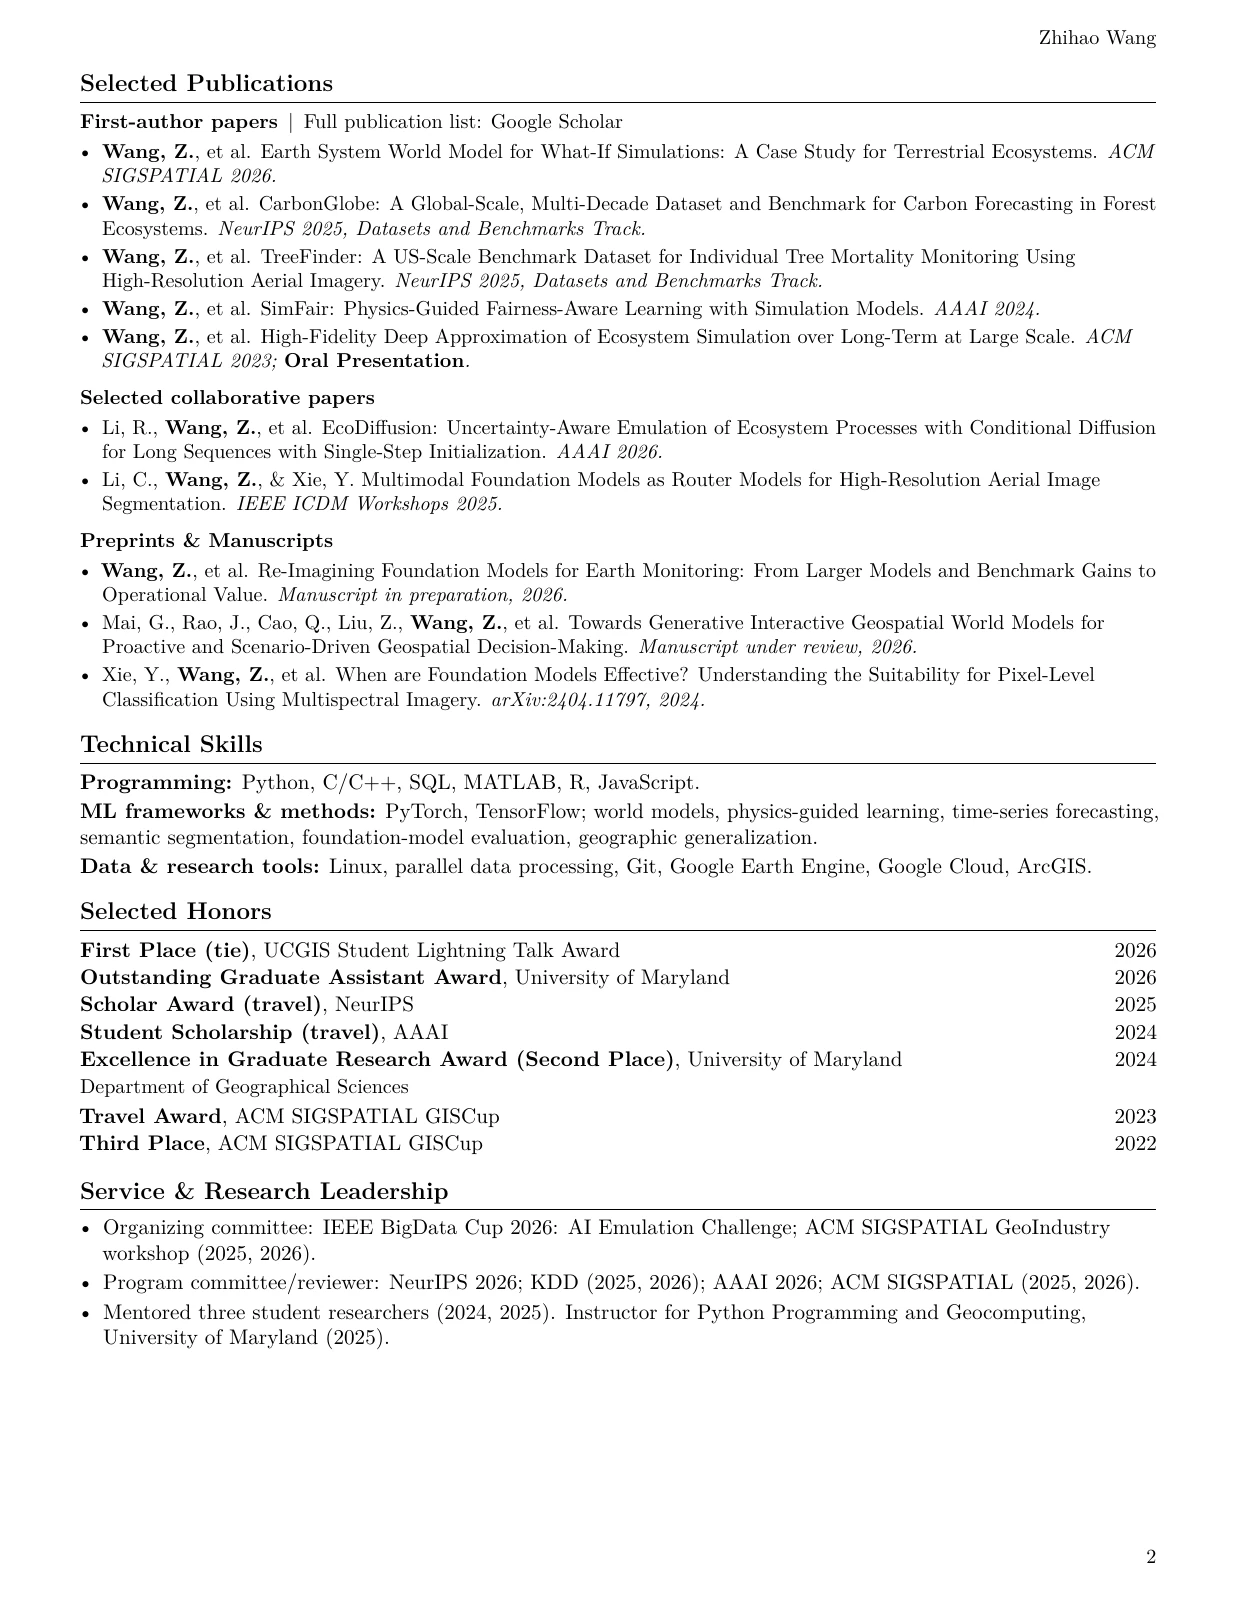
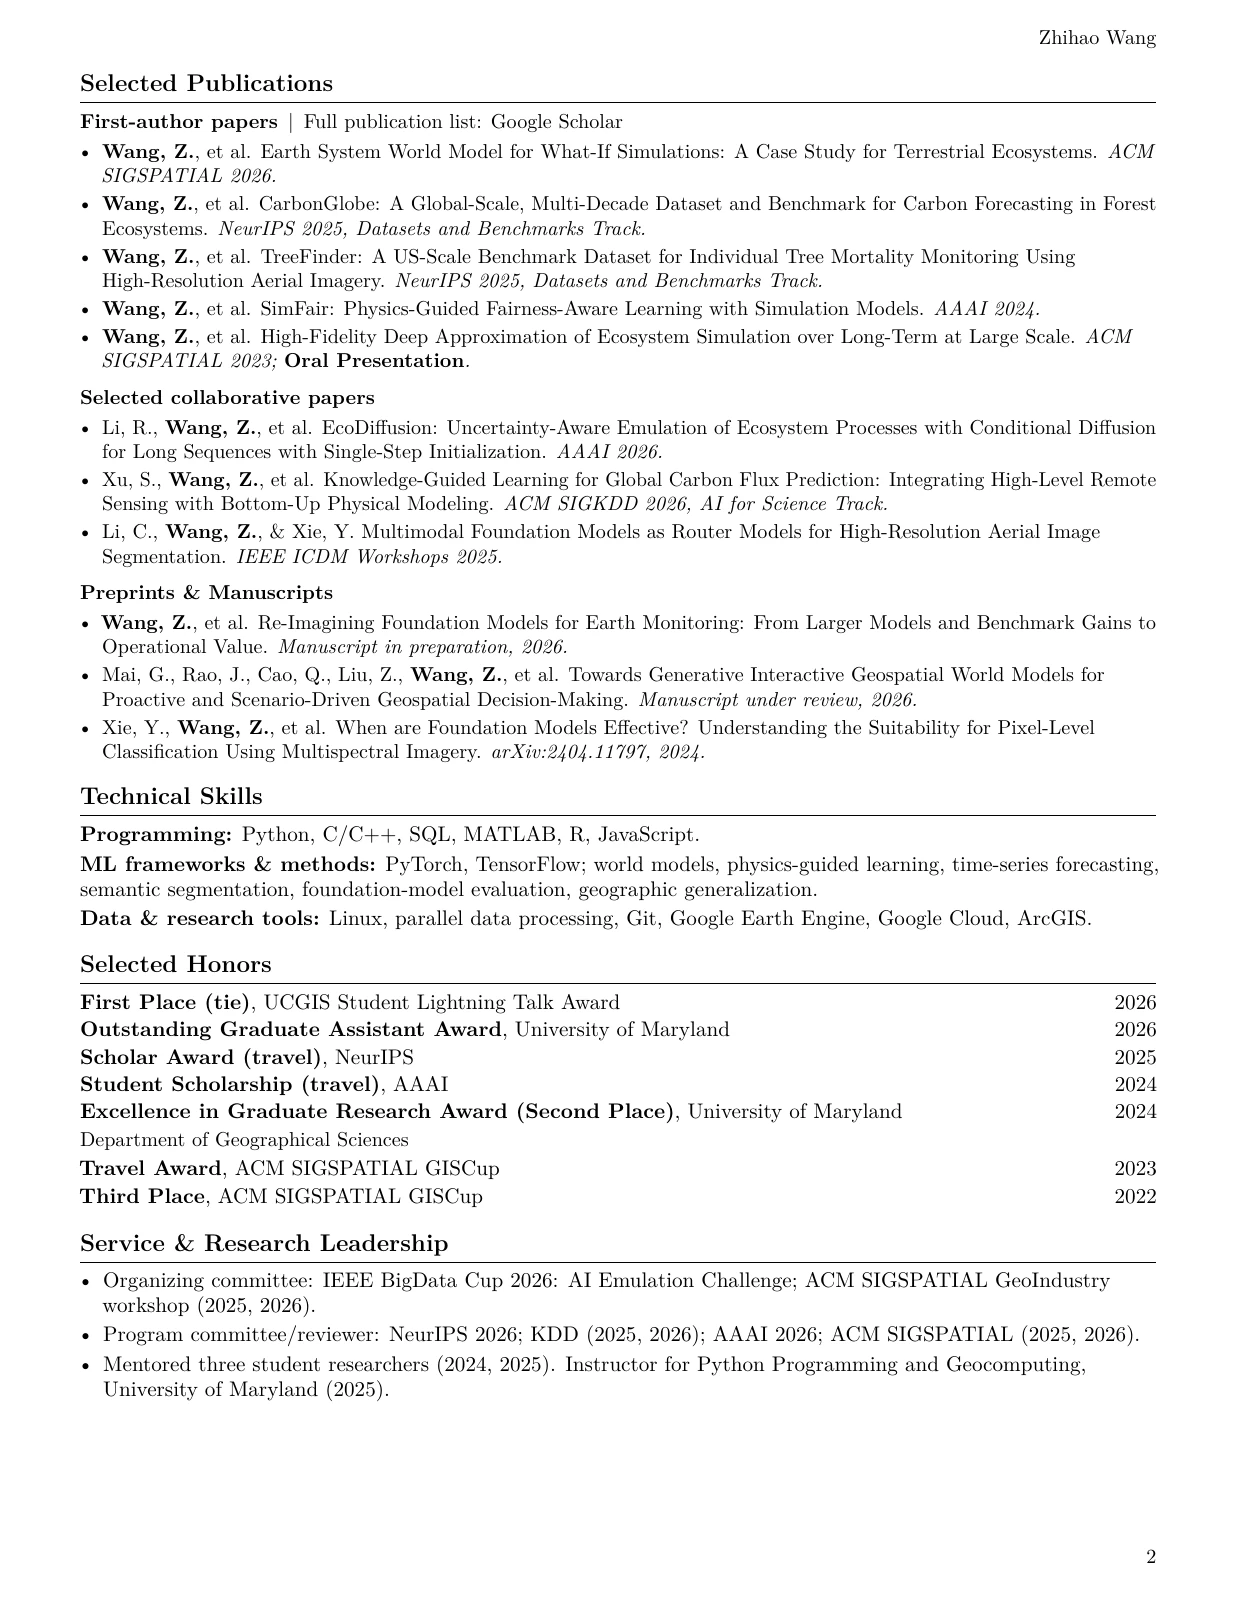
Add KDD 2026 collaborative paper to resume

Changed region(s): [[0.0614, 0.2812, 0.9216, 0.875], [0.8909, 0.5938, 0.9523, 0.75], [0.4915, 0.6562, 0.5222, 0.7188]]

diff --git a/resume/index.html b/resume/index.html
@@ -5,7 +5,7 @@
   <meta name="viewport" content="width=device-width, initial-scale=1">
   <title>Zhihao Wang | Resume</title>
   <meta name="description" content="Download Zhihao Wang’s industry resume or academic CV: research in GeoAI, world models, foundation models, and AI for Science.">
-  <link rel="preload" as="image" href="/assets/img/documents/resume-preview.webp?v=49615534a1c0">
+  <link rel="preload" as="image" href="/assets/img/documents/resume-preview.webp?v=8a68cf90402e">
   <link rel="canonical" href="https://zhwang0.github.io/resume/">
   <script src="/assets/js/theme.js?v=20260902-theme1"></script>
   <link rel="preconnect" href="https://fonts.googleapis.com">
@@ -70,18 +70,18 @@
         <header class="document-toolbar">
           <div class="document-toolbar-heading"><h2 id="resume-panel-title">Industry Resume</h2><p>2 pages <span aria-hidden="true">·</span> PDF</p></div>
           <div class="document-actions">
-            <a class="document-open" href="/assets/pdf/Zhihao_Wang_Resume.pdf?v=49615534a1c0">Open PDF <span aria-hidden="true">↗</span></a>
-            <a class="document-download" href="/assets/pdf/Zhihao_Wang_Resume.pdf?v=49615534a1c0" download="Zhihao_Wang_Resume.pdf" aria-label="Download industry resume"><i class="fas fa-arrow-down" aria-hidden="true"></i> Download</a>
+            <a class="document-open" href="/assets/pdf/Zhihao_Wang_Resume.pdf?v=8a68cf90402e">Open PDF <span aria-hidden="true">↗</span></a>
+            <a class="document-download" href="/assets/pdf/Zhihao_Wang_Resume.pdf?v=8a68cf90402e" download="Zhihao_Wang_Resume.pdf" aria-label="Download industry resume"><i class="fas fa-arrow-down" aria-hidden="true"></i> Download</a>
           </div>
         </header>
-        <div class="document-stage" data-page-count="2" data-preview-prefix="/assets/img/documents/resume-preview" data-preview-version="49615534a1c0" data-document-label="industry resume">
+        <div class="document-stage" data-page-count="2" data-preview-prefix="/assets/img/documents/resume-preview" data-preview-version="8a68cf90402e" data-document-label="industry resume">
           <div class="preview-pagination" role="group" aria-label="Industry resume preview pages">
             <button class="preview-page-button" type="button" data-page-step="-1" aria-label="Previous page of industry resume" hidden disabled><i class="fas fa-chevron-left" aria-hidden="true"></i> Previous</button>
             <span class="preview-page-status" role="status" aria-live="polite" aria-atomic="true">Page 1 of 2</span>
             <button class="preview-page-button" type="button" data-page-step="1" aria-label="Next page of industry resume" hidden>Next <i class="fas fa-chevron-right" aria-hidden="true"></i></button>
           </div>
-          <a class="paper-preview" href="/assets/pdf/Zhihao_Wang_Resume.pdf?v=49615534a1c0" aria-label="Open full industry resume">
-            <img src="/assets/img/documents/resume-preview.webp?v=49615534a1c0" alt="First page of Zhihao Wang’s industry resume" width="1237" height="1600" fetchpriority="high" decoding="async">
+          <a class="paper-preview" href="/assets/pdf/Zhihao_Wang_Resume.pdf?v=8a68cf90402e" aria-label="Open full industry resume">
+            <img src="/assets/img/documents/resume-preview.webp?v=8a68cf90402e" alt="First page of Zhihao Wang’s industry resume" width="1237" height="1600" fetchpriority="high" decoding="async">
             <span class="preview-open" aria-hidden="true">View full resume <span>↗</span></span>
           </a>
           <p class="preview-error" role="alert" hidden>This page preview could not be loaded. Use Open PDF to read the full document.</p>
@@ -112,7 +112,7 @@
   </main>
 
   <footer><span>&copy; 2026 Zhihao Wang</span><a href="/">Back to home <span aria-hidden="true">↗</span></a></footer>
-  <script src="/assets/js/resume.js?v=20261008-v5-49615534a1c0"></script>
+  <script src="/assets/js/resume.js?v=20261008-v5-8a68cf90402e"></script>
   <script src="/assets/js/site.js?v=20260818-navigation1"></script>
 </body>
 </html>
